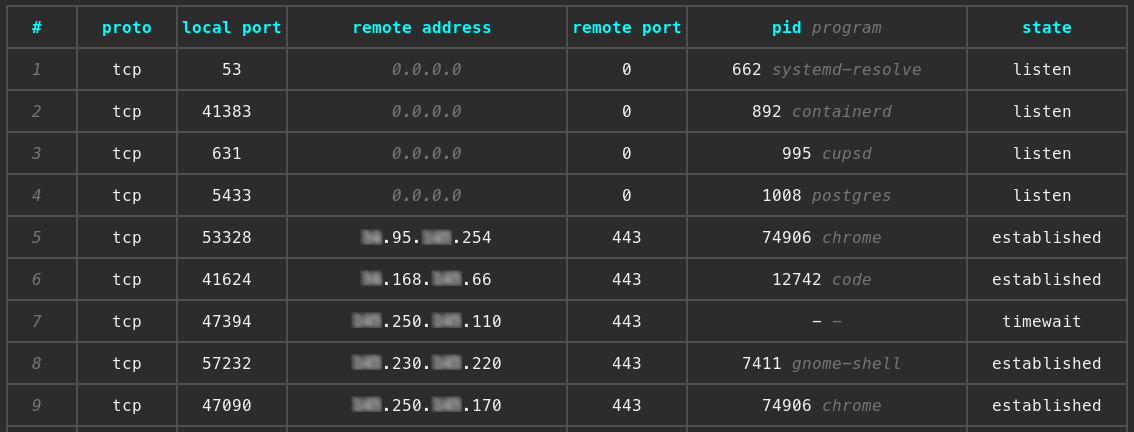
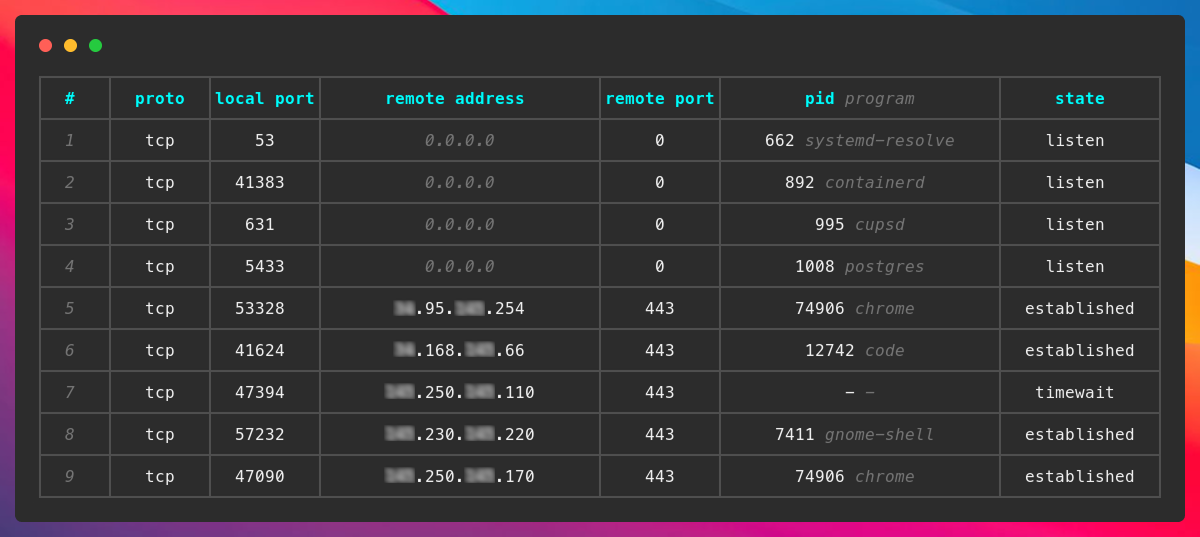
update preview image, change amount-connection info text

diff --git a/src/utils.rs b/src/utils.rs
@@ -65,7 +65,7 @@ pub fn get_address_parts(address: &str) -> (String, String) {
 /// # Returns
 /// None
 pub fn pretty_print_info(text: &str) {
-    let mut skin = MadSkin::default();
+    let mut skin: MadSkin = MadSkin::default();
     skin.bold.set_fg(White);
     skin.italic = CompoundStyle::new(Some(gray(11)), None, Encircled.into());
     skin.strikeout = CompoundStyle::new(Some(Cyan), None, Encircled.into());

diff --git a/src/table.rs b/src/table.rs
@@ -126,7 +126,7 @@ pub fn print_connections_table(all_connections: &Vec<Connection>) {
 
     println!("{}", skin.term_text(&markdown));
 
-    utils::pretty_print_info(&format!("Connections: **{}**", all_connections.len()));
+    utils::pretty_print_info(&format!("**{} Connections**", all_connections.len()));
 }
 
 

diff --git a/README.md b/README.md
@@ -11,7 +11,11 @@
 - interactive killing of processes
 - from ``nestat -tulpn`` to ``somo -l`` (almost half the characters, can you believe it?)
 
-![somo-example](./images/somo-example.png)
+<br />
+
+<p align="center">
+  <img src="./images/somo-example.png" />
+</p>
 
 ---
 
